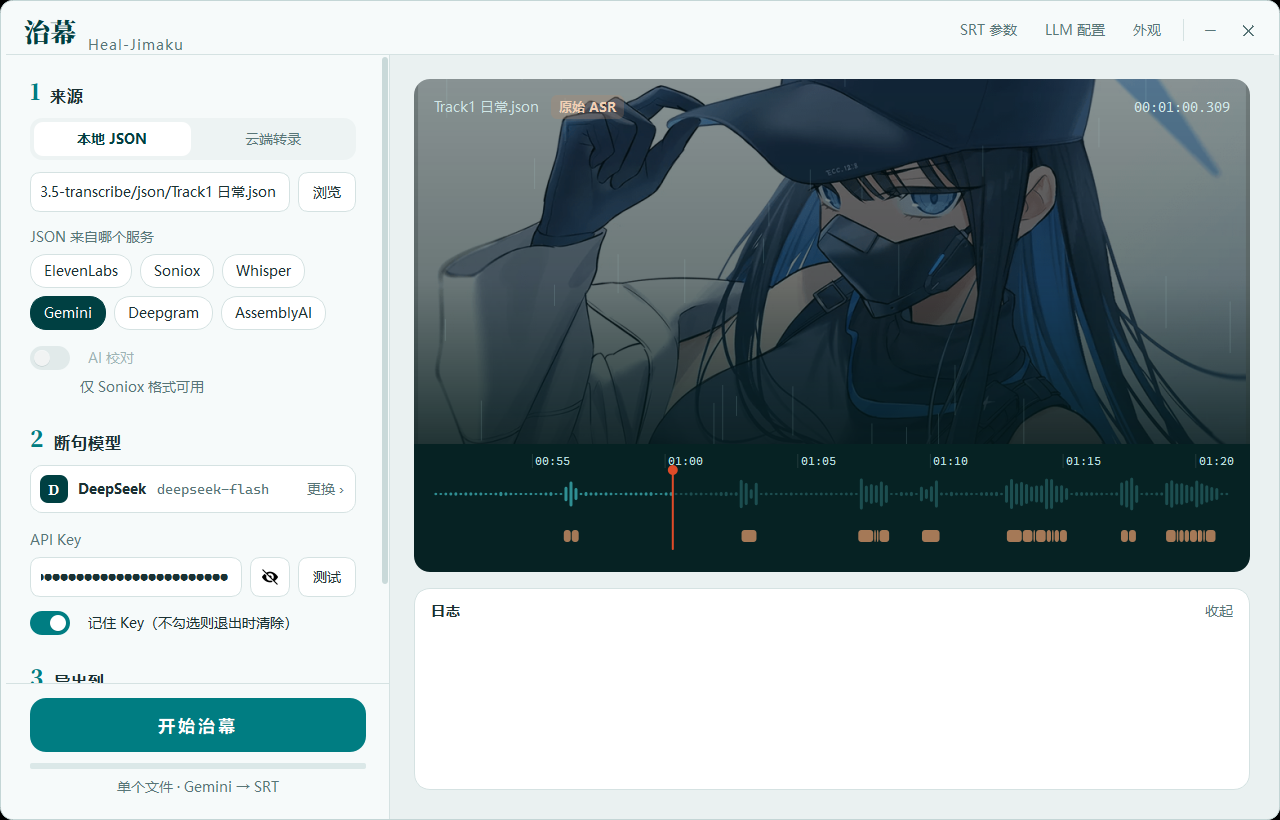
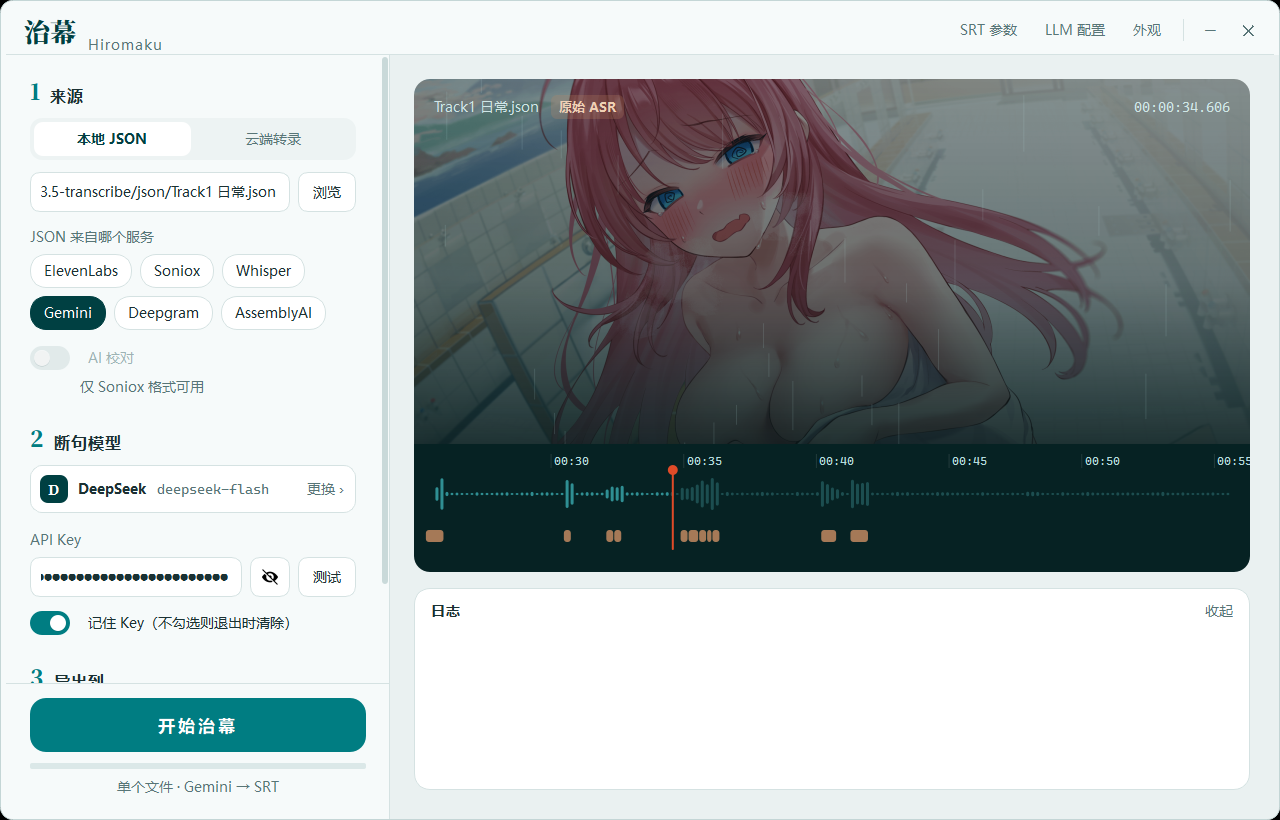
brand: 应用更名为 Hiromaku，更新新界面截图
- 窗口标题、主界面品牌区、AppUserModelID、校对报告标题改为 Hiromaku
- 配置目录 ~/.heal_jimaku 与内部类名保持不变，不影响现有用户配置
- 重新截取新界面截图

diff --git a/src/main.py b/src/main.py
@@ -1,6 +1,6 @@
 #!/usr/bin/env python3
 """
-治幕 (Heal-Jimaku) - 字幕处理工具主程序
+治幕 (Hiromaku) - 字幕处理工具主程序
 负责应用初始化、高DPI设置和主窗口启动
 """
 
@@ -94,13 +94,13 @@ if __name__ == "__main__":
     except Exception as e_generic:
         print(f"警告: 设置高DPI属性时发生未知错误: {e_generic}")
 
-    app.setApplicationName("HealJimaku")
+    app.setApplicationName("Hiromaku")
 
     # Windows系统设置应用ID
     if os.name == 'nt':
         try:
             import ctypes
-            myappid_str = 'fuxiaomoke.HealJimaku.Refactored.Project.0.0.3'
+            myappid_str = 'sananisome.Hiromaku.Project.1.0.0'
             ctypes.windll.shell32.SetCurrentProcessExplicitAppUserModelID(myappid_str)
         except Exception:
             pass

diff --git a/src/ui/main_window.py b/src/ui/main_window.py
@@ -86,7 +86,7 @@ class HealJimakuApp(QMainWindow):
 
     def __init__(self):
         super().__init__()
-        self.setWindowTitle("Heal-Jimaku (治幕)")
+        self.setWindowTitle("Hiromaku (治幕)")
 
         # 初始化核心组件
         self.srt_processor = SrtProcessor()
@@ -862,7 +862,7 @@ class HealJimakuApp(QMainWindow):
         self.background_settings_button.clicked.connect(self.open_background_settings_dialog)
         title_bar_layout.addWidget(self.background_settings_button)
 
-        title = CustomLabel_title("Heal-Jimaku (治幕)")
+        title = CustomLabel_title("Hiromaku (治幕)")
         title_font = QFont(self.custom_font_family, 23)  # 从24pt减小到23pt
         title_font.setBold(True)
         title.setFont(title_font)

diff --git a/src/ui/conversion_worker.py b/src/ui/conversion_worker.py
@@ -531,7 +531,7 @@ class ConversionWorker(QObject):
                 self.signals.log_message.emit(f"正在生成校对报告...")
                 try:
                     with open(correction_hints_filepath, "w", encoding="utf-8") as f:
-                        f.write("Heal-Jimaku 校对提示报告\n")
+                        f.write("Hiromaku 校对提示报告\n")
                         f.write("=" * 50 + "\n\n")
                         f.write(f"生成时间: {datetime.datetime.now().strftime('%Y-%m-%d %H:%M:%S')}\n")
                         f.write(f"源格式: {actual_source_format}\n")

diff --git a/src/ui/modern_main_window.py b/src/ui/modern_main_window.py
@@ -207,7 +207,7 @@ class ModernHealJimakuApp(HealJimakuApp):
         hl.setContentsMargins(18, 0, 8, 0)
         hl.setSpacing(4)
         wordmark = self._label("治幕", "wordmark")
-        sub = self._label("Heal-Jimaku", "sub")
+        sub = self._label("Hiromaku", "sub")
         hl.addWidget(wordmark)
         hl.addSpacing(8)
         hl.addWidget(sub, 0, Qt.AlignmentFlag.AlignBottom)
